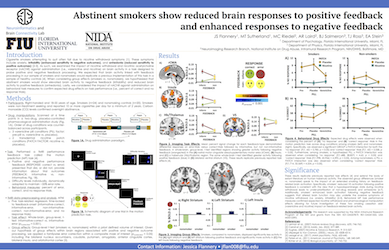
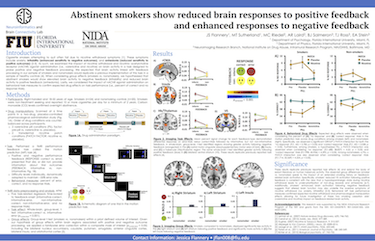
Standardize poster sizes.

diff --git a/tests/test_images.py b/tests/test_images.py
@@ -36,6 +36,32 @@ def test_team_image_sizes(testdata):
         raise Exception('Test failed on {}'.format(', '.join(failures)))
 
 
+def test_poster_image_sizes(testdata):
+    """
+    Test that poster pictures are the right size.
+    """
+    photo_folder = os.path.join(testdata["assets"], "images", "posters")
+    max_target_size = 375  # in pixels
+
+    # Group photos should not have "-" in the filenames
+    patterns = ["*.png", "*.jpg"]
+    files = [glob(os.path.join(photo_folder, p)) for p in patterns]
+    files = [item for sublist in files for item in sublist]
+    if not len(files):
+        raise Exception("No files found in {}".format(photo_folder))
+
+    failures = []
+    for f in files:
+        fname = os.path.basename(f)
+        img = plt.imread(f)
+        if max(img.shape) != max_target_size:
+            failures.append(fname)
+
+    if len(failures):
+        failures = sorted(list(set(failures)))
+        raise Exception('Test failed on {}'.format(', '.join(failures)))
+
+
 def test_project_image_sizes(testdata):
     """
     Test that project photos are the right size.
